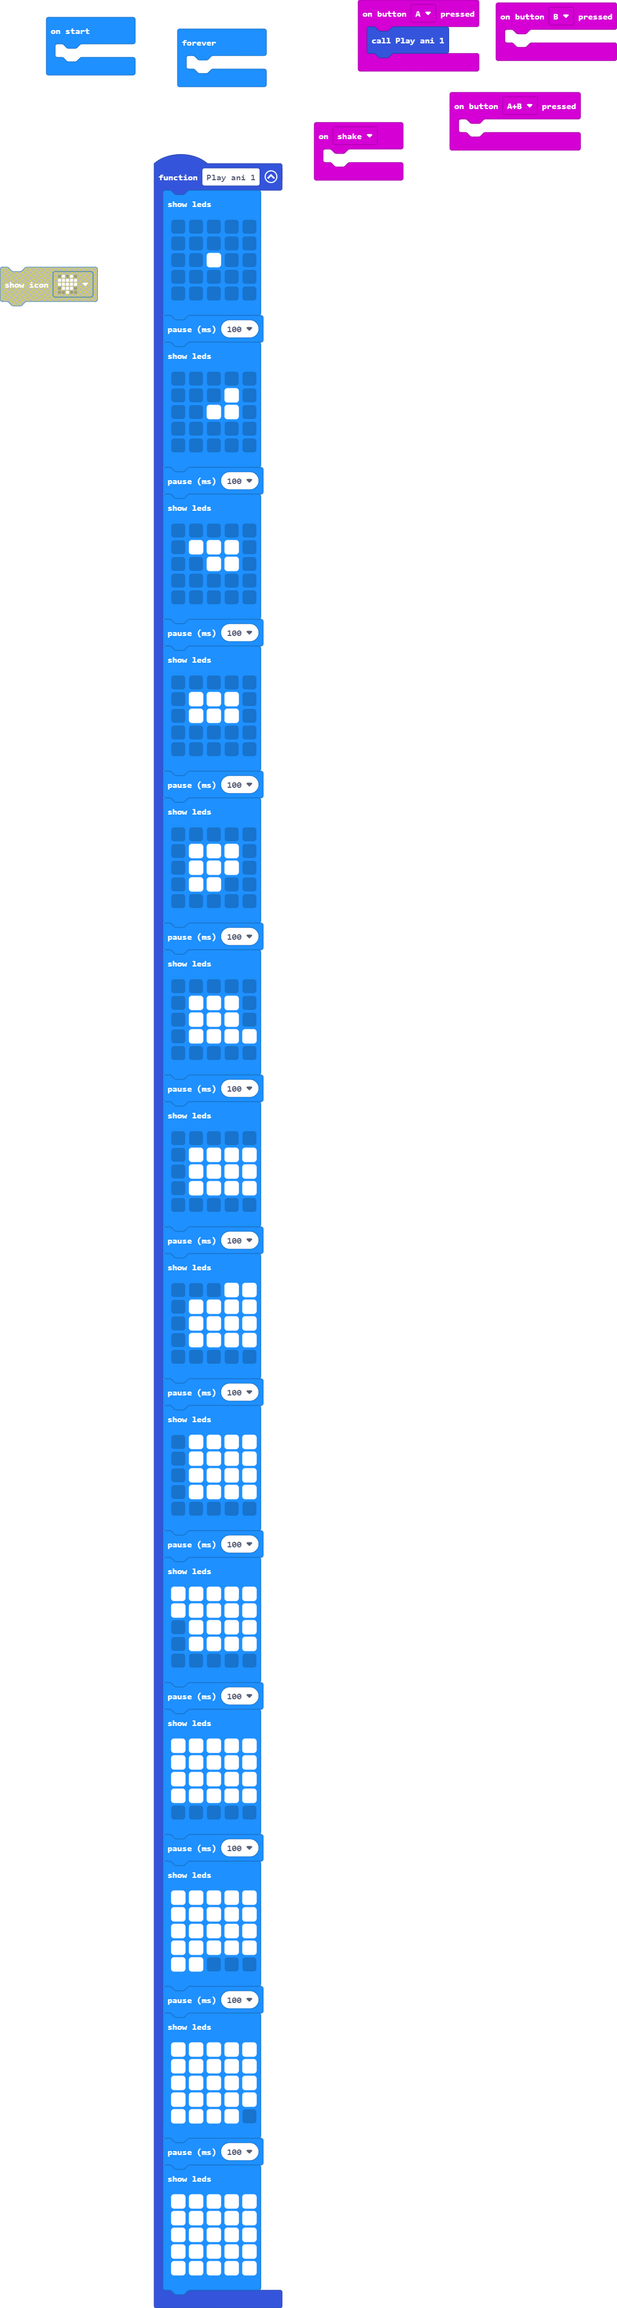
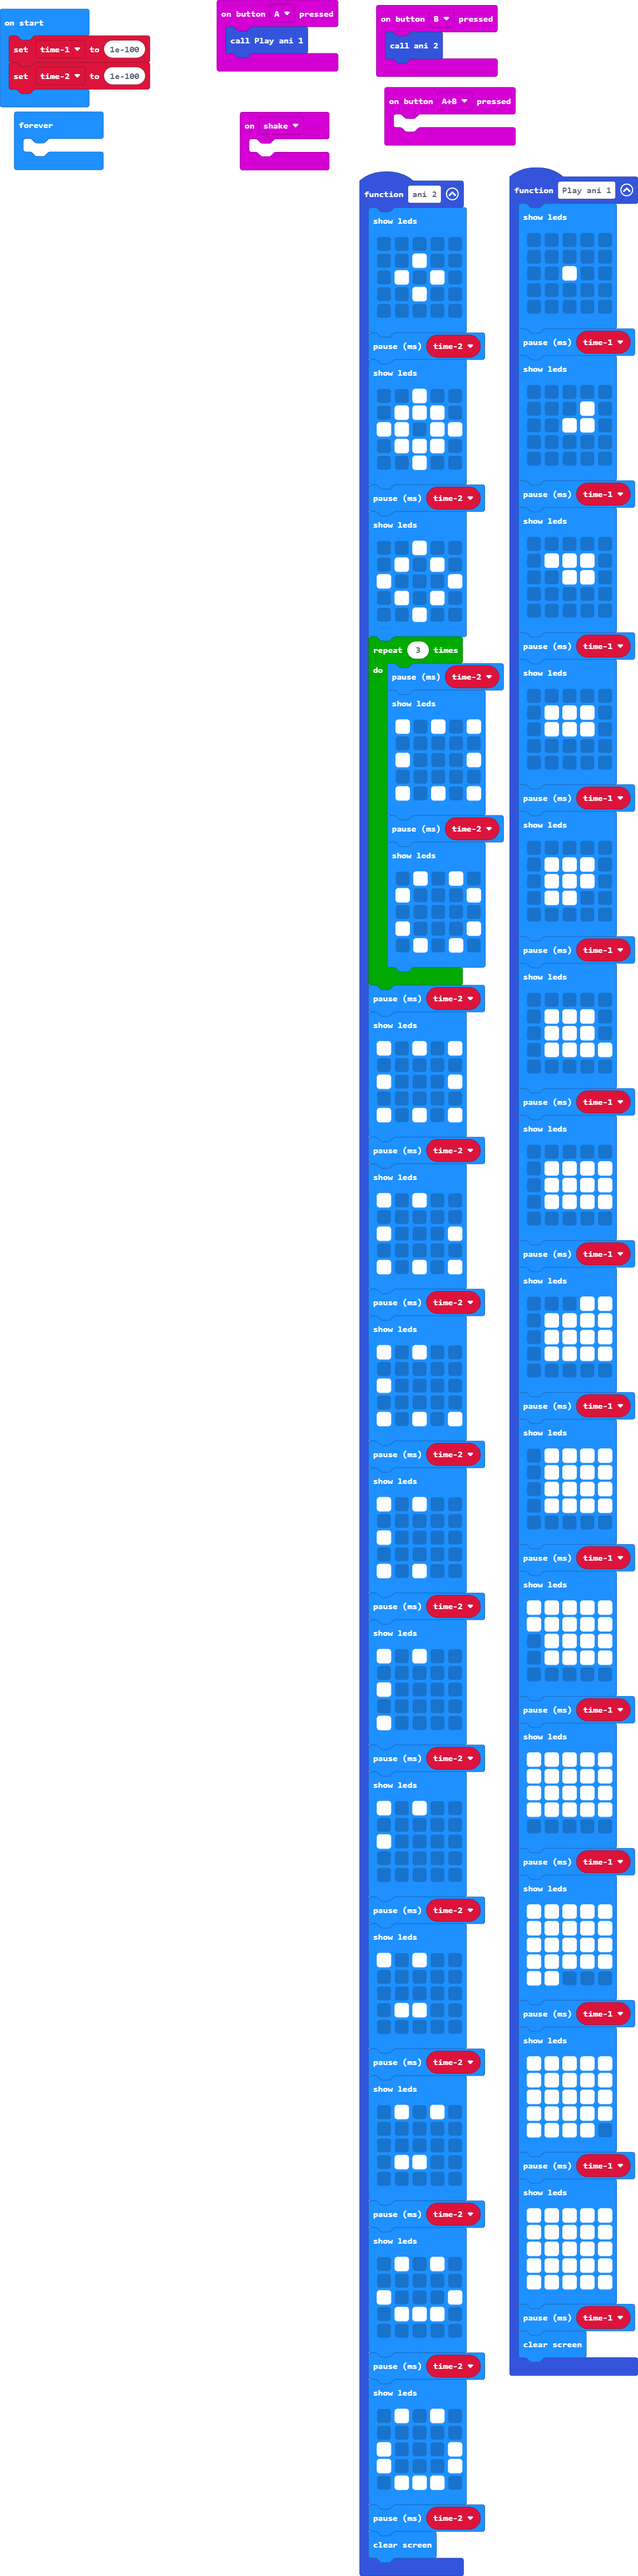
so many animations!!!!!!!!!!!!!!!!!!!

diff --git a/main.ts b/main.ts
@@ -9,7 +9,7 @@ function Play_ani_1 () {
         . . . . .
         . . . . .
         `)
-    basic.pause(100)
+    basic.pause(time1)
     basic.showLeds(`
         . . . . .
         . . . # .
@@ -17,7 +17,7 @@ function Play_ani_1 () {
         . . . . .
         . . . . .
         `)
-    basic.pause(100)
+    basic.pause(time1)
     basic.showLeds(`
         . . . . .
         . # # # .
@@ -25,7 +25,7 @@ function Play_ani_1 () {
         . . . . .
         . . . . .
         `)
-    basic.pause(100)
+    basic.pause(time1)
     basic.showLeds(`
         . . . . .
         . # # # .
@@ -33,7 +33,7 @@ function Play_ani_1 () {
         . . . . .
         . . . . .
         `)
-    basic.pause(100)
+    basic.pause(time1)
     basic.showLeds(`
         . . . . .
         . # # # .
@@ -41,7 +41,7 @@ function Play_ani_1 () {
         . # # . .
         . . . . .
         `)
-    basic.pause(100)
+    basic.pause(time1)
     basic.showLeds(`
         . . . . .
         . # # # .
@@ -49,7 +49,7 @@ function Play_ani_1 () {
         . # # # #
         . . . . .
         `)
-    basic.pause(100)
+    basic.pause(time1)
     basic.showLeds(`
         . . . . .
         . # # # #
@@ -57,7 +57,7 @@ function Play_ani_1 () {
         . # # # #
         . . . . .
         `)
-    basic.pause(100)
+    basic.pause(time1)
     basic.showLeds(`
         . . . # #
         . # # # #
@@ -65,7 +65,7 @@ function Play_ani_1 () {
         . # # # #
         . . . . .
         `)
-    basic.pause(100)
+    basic.pause(time1)
     basic.showLeds(`
         . # # # #
         . # # # #
@@ -73,7 +73,7 @@ function Play_ani_1 () {
         . # # # #
         . . . . .
         `)
-    basic.pause(100)
+    basic.pause(time1)
     basic.showLeds(`
         # # # # #
         # # # # #
@@ -81,7 +81,7 @@ function Play_ani_1 () {
         . # # # #
         . . . . .
         `)
-    basic.pause(100)
+    basic.pause(time1)
     basic.showLeds(`
         # # # # #
         # # # # #
@@ -89,7 +89,7 @@ function Play_ani_1 () {
         # # # # #
         . . . . .
         `)
-    basic.pause(100)
+    basic.pause(time1)
     basic.showLeds(`
         # # # # #
         # # # # #
@@ -97,7 +97,7 @@ function Play_ani_1 () {
         # # # # #
         # # . . .
         `)
-    basic.pause(100)
+    basic.pause(time1)
     basic.showLeds(`
         # # # # #
         # # # # #
@@ -105,7 +105,7 @@ function Play_ani_1 () {
         # # # # #
         # # # # .
         `)
-    basic.pause(100)
+    basic.pause(time1)
     basic.showLeds(`
         # # # # #
         # # # # #
@@ -113,16 +113,147 @@ function Play_ani_1 () {
         # # # # #
         # # # # #
         `)
+    basic.pause(time1)
+    basic.clearScreen()
 }
 input.onButtonPressed(Button.AB, function () {
 	
 })
 input.onButtonPressed(Button.B, function () {
-	
+    ani_2()
 })
 input.onGesture(Gesture.Shake, function () {
 	
 })
+function ani_2 () {
+    basic.showLeds(`
+        . . . . .
+        . . # . .
+        . # . # .
+        . . # . .
+        . . . . .
+        `)
+    basic.pause(time2)
+    basic.showLeds(`
+        . . # . .
+        . # # # .
+        # # . # #
+        . # # # .
+        . . # . .
+        `)
+    basic.pause(time2)
+    basic.showLeds(`
+        . . # . .
+        . # . # .
+        # . . . #
+        . # . # .
+        . . # . .
+        `)
+    for (let index = 0; index < 3; index++) {
+        basic.pause(time2)
+        basic.showLeds(`
+            # . # . #
+            . . . . .
+            # . . . #
+            . . . . .
+            # . # . #
+            `)
+        basic.pause(time2)
+        basic.showLeds(`
+            . # . # .
+            # . . . #
+            . . . . .
+            # . . . #
+            . # . # .
+            `)
+    }
+    basic.pause(time2)
+    basic.showLeds(`
+        # . # . #
+        . . . . .
+        # . . . #
+        . . . . .
+        # . # . #
+        `)
+    basic.pause(time2)
+    basic.showLeds(`
+        # . # . .
+        . . . . .
+        # . . . #
+        . . . . .
+        # . # . #
+        `)
+    basic.pause(time2)
+    basic.showLeds(`
+        # . # . .
+        . . . . .
+        # . . . .
+        . . . . .
+        # . # . #
+        `)
+    basic.pause(time2)
+    basic.showLeds(`
+        # . # . .
+        . . . . .
+        # . . . .
+        . . . . .
+        # . # . .
+        `)
+    basic.pause(time2)
+    basic.showLeds(`
+        # . # . .
+        . . . . .
+        # . . . .
+        . . . . .
+        # . . . .
+        `)
+    basic.pause(time2)
+    basic.showLeds(`
+        # . # . .
+        . . . . .
+        # . . . .
+        . . . . .
+        . . . . .
+        `)
+    basic.pause(time2)
+    basic.showLeds(`
+        # . # . .
+        . . . . .
+        . . . . .
+        . # # . .
+        . . . . .
+        `)
+    basic.pause(time2)
+    basic.showLeds(`
+        . # . # .
+        . . . . .
+        . . . . .
+        . # # . .
+        . . . . .
+        `)
+    basic.pause(time2)
+    basic.showLeds(`
+        . # . # .
+        . . . . .
+        # . . . #
+        . # # # .
+        . . . . .
+        `)
+    basic.pause(time2)
+    basic.showLeds(`
+        . # . # .
+        . . . . .
+        # . . . #
+        # . . . #
+        . # # # .
+        `)
+    basic.pause(time2)
+    basic.clearScreen()
+}
+let time2 = 0
+let time1 = 0
+time1 = 1e-100
+time2 = 1e-100
 basic.forever(function () {
 	
 })
